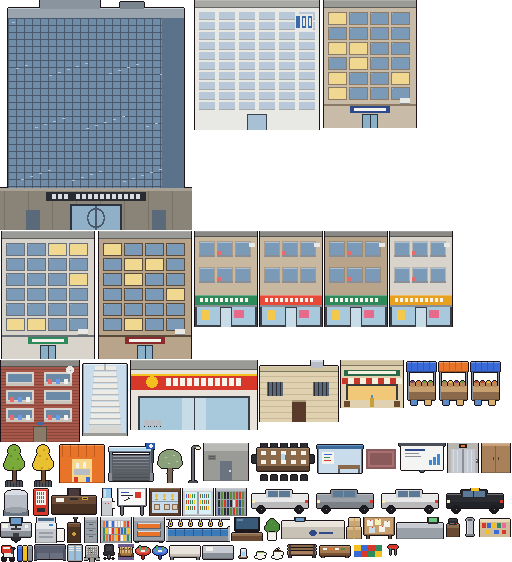
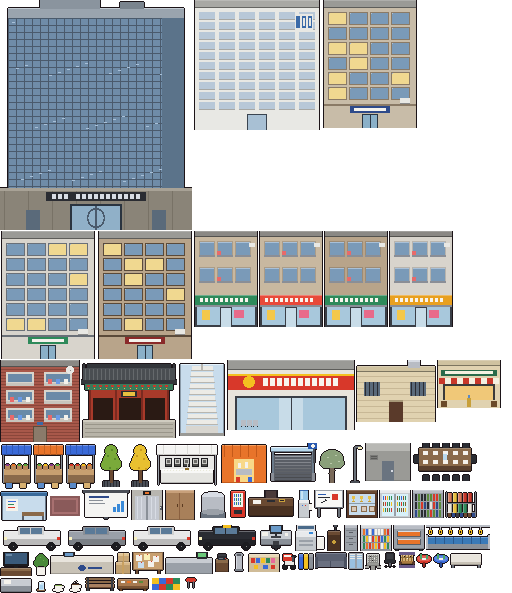
Seoul kit, Book 1 (Places beb0a09): prop.memorial_tent (the 분향소 at Daehanmun), building.palace_gate (Daehanmun, 6x3: three bays, tiled hipped roof, dancheong eaves, stone base), furn.cloth_bolts (the textile floor), and ground wall.palace (Deoksugung's wall: tiled coping, plaster, stone base). Cost 
Claude-Session: https://claude.ai/code/session_01PgFWANZ31jD9jaHVPjMEnq

diff --git a/tools/draw_seoul.py b/tools/draw_seoul.py
@@ -924,6 +924,73 @@ def stalls():   # a row of street-market stalls: blue and orange tarps on poles 
     return img(g)
 
 
+def memorial_tent():   # a white memorial tent (분향소): a white canopy on poles, a table in white cloth, framed portraits,
+    W, H = 4 * T, 44      # rows of white chrysanthemums, incense
+    g = Grid(W, H)
+    g.rect(2, 2, W - 4, 10, "#f4f4f2"); g.rect(2, 2, W - 4, 1, "#ffffff"); g.rect(2, 11, W - 4, 1, "#c8c8c4")
+    for x in range(8, W - 4, 12):
+        g.rect(x, 2, 1, 10, "#dcdcd8")
+    g.rect(3, 12, 1, 30, "#9aa0a8"); g.rect(W - 4, 12, 1, 30, "#9aa0a8")
+    g.rect(5, 13, W - 10, 14, "#e8e8e6")                                                                   # the back curtain
+    for x in range(10, W - 12, 9):                                                                          # framed portraits
+        g.rect(x, 15, 7, 9, "#1c1c20"); g.rect(x + 1, 16, 5, 7, "#c8c8c4"); g.ellipse(x + 3.5, 18.5, 1.5, 1.6, "#6a6a68")
+        g.rect(x + 1, 21, 5, 2, "#4a4a48")
+    box(g, 6, 26, W - 12, 4, 10, "#f8f8f6", "#e4e4e0")                                                      # the table in white cloth
+    for x in range(8, W - 8, 3):
+        g.set(x, 26, "#ffffff"); g.set(x + 1, 27, "#e8e8d8")                                               # white chrysanthemums
+    g.rect(W // 2 - 2, 25, 4, 2, "#8a6a2a"); g.rect(W // 2, 21, 1, 4, "#c8c8c4")                            # incense
+    return img(g)
+
+
+def palace_gate():   # Daehanmun, Deoksugung's main gate: three bays, a hipped tiled roof with painted eaves, a stone base
+    W, H = 6 * T, 78
+    g = Grid(W, H)
+    roof, roofD = "#4a4e52", "#33363a"
+    g.rect(6, 4, W - 12, 4, roofD); g.rect(2, 8, W - 4, 14, roof); g.rect(0, 20, W, 4, roofD)               # the hipped roof
+    for x in range(4, W - 4, 4):
+        g.rect(x, 9, 1, 11, shade(roof, .15))
+    g.rect(2, 4, 2, 4, roofD); g.rect(W - 4, 4, 2, 4, roofD)                                                # the ridge ends
+    g.rect(4, 24, W - 8, 6, "#3a7a5a")                                                                        # painted eaves (dancheong)
+    for x in range(6, W - 6, 6):
+        g.rect(x, 25, 3, 2, "#c8382a"); g.set(x + 1, 28, "#e8c040")
+    g.rect(8, 30, W - 16, 30, "#a83a2a")                                                                      # red columns and walls
+    for x in (8, W // 2 - 14, W // 2 + 12, W - 10):
+        g.rect(x, 30, 2, 30, "#7a2a20")
+    for x in (12, W // 2 - 10, W // 2 + 16):                                                                   # three doorways, open
+        g.rect(x, 38, 20 if x != W // 2 - 10 else 22, 22, "#2a1a14")
+    g.rect(W // 2 - 8, 31, 16, 6, "#2a2a30"); g.rect(W // 2 - 6, 32, 12, 4, "#e8c040")                       # the name board
+    g.rect(2, 60, W - 4, H - 60, "#b8b4a8"); g.rect(2, 60, W - 4, 2, "#d0ccc0")                               # the stone base and steps
+    for y in range(64, H, 4):
+        g.rect(4, y, W - 8, 1, "#9a968a")
+    return img(g)
+
+
+def cloth_bolts():   # rolls of fabric on a rack, sample books on the bottom shelf
+    g = Grid(2 * T, 28)
+    g.rect(1, 2, 1, 25, "#7a8088"); g.rect(30, 2, 1, 25, "#7a8088"); g.rect(1, 13, 30, 1, "#7a8088"); g.rect(1, 22, 30, 1, "#7a8088")
+    r = random.Random(23)
+    for row, y in enumerate((3, 14)):
+        for x in range(3, 28, 5):
+            c = r.choice(["#c8382a", "#3a6ad8", "#e8c040", "#2e8a5a", "#e8e4dc", "#8a5aa8", "#d87a5a"])
+            g.rect(x, y, 4, 9, c); g.rect(x, y, 1, 9, shade(c, .3)); g.rect(x + 3, y, 1, 9, shade(c, -.25))
+    for x in range(3, 28, 4):
+        g.rect(x, 23, 3, 4, r.choice(["#2e4a8a", "#6a4a32", "#3a3a42"]))
+    return img(g)
+
+
+def palace_wall(v):   # Deoksugung's wall seen from above: a tiled coping on plaster over a stone base
+    g = Grid(T, T)
+    g.rect(0, 0, T, 5, "#4a4e52"); g.rect(0, 0, T, 1, "#6a6e72")
+    for x in range(v * 2, T, 4):
+        g.rect(x, 1, 1, 4, "#33363a")
+    g.rect(0, 5, T, 6, "#e8e2d4"); g.rect(0, 10, T, 1, "#c8c2b4")
+    g.rect(0, 11, T, 5, "#a8a49a")
+    for x in range(v * 3, T, 6):
+        g.rect(x, 11, 1, 5, "#8a867c")
+    g.rect(0, 13, T, 1, "#8a867c")
+    return g.image()
+
+
 def mat():   # a rug
     g = Grid(2 * T, 2 * T)
     g.rect(1, 6, 30, 20, "#8a5a5a"); g.rect(3, 8, 26, 16, "#a87070"); g.rect(5, 10, 22, 12, "#8a5a5a")
@@ -953,6 +1020,8 @@ PIECES = {
     # old kinds the Misaeng plans use, redrawn modern for this kit
     "lamp.post": streetlight, "furn.plant": plant, "furn.window": window, "furn.counter": counter, "furn.table": table,
     "furn.stool": stool, "furn.shelf": shelf, "furn.desk": desk, "furn.mat": mat, "furniture.gotable": gotable, "market.stalls": stalls,
+    # Book 1: the memorial at Daehanmun, Daehanmun itself, the textile floor
+    "prop.memorial_tent": memorial_tent, "building.palace_gate": palace_gate, "furn.cloth_bolts": cloth_bolts,
     # m17's drinks, small on a table top
     "prop.glass_water": glass_water, "prop.teacup": teacup, "prop.coffee_cup": coffee_cup,
 }
@@ -963,7 +1032,7 @@ TILES = {
     "barrier": [barrier(0), barrier(1)], "parapet": [parapet(0), parapet(1)], "roof": [roof(0), roof(1)],
     "stone": [office_tile(0), office_tile(1)], "mat": [carpet(0), carpet(1)], "wood": [laminate(0), laminate(1)],
     "earth": [concrete(0), concrete(1)], "lobby": [lobby(0), lobby(1)], "platform": [platform(0), platform(1)],
-    "limestone": [limestone(0), limestone(1)],
+    "limestone": [limestone(0), limestone(1)], "wall.palace": [palace_wall(0), palace_wall(1)],
 }
 # grounds that are another's tiles here: the old names Places' plans use, in their modern form
 SAME = {"court": "roof", "asphalt": "traffic", "carpet": "mat", "office_tile": "lobby", "lino": "wood", "ward": "city", "passage": "city", "path": "city", "camp": "city", "market": "city",
